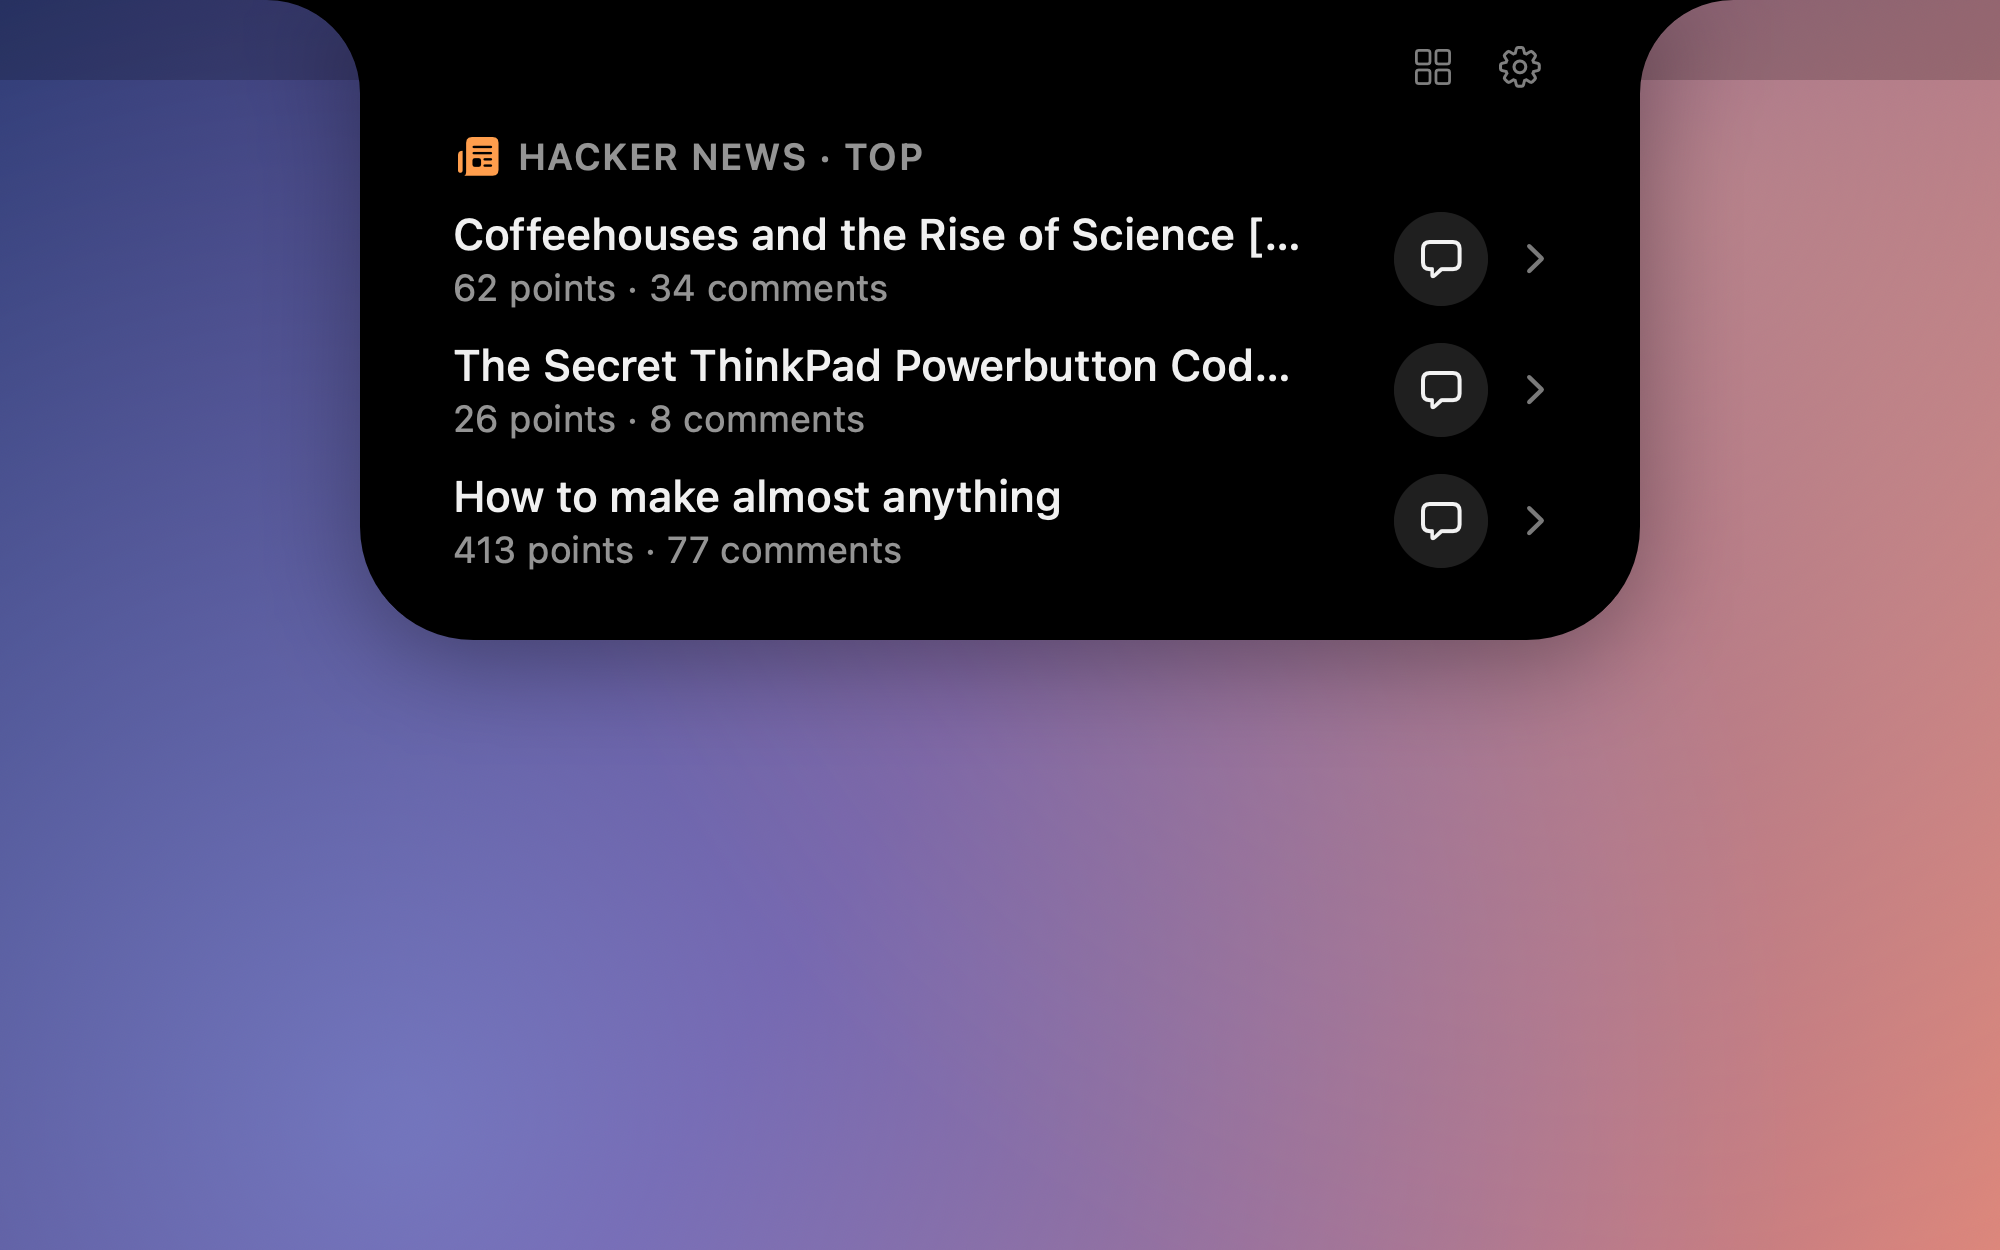
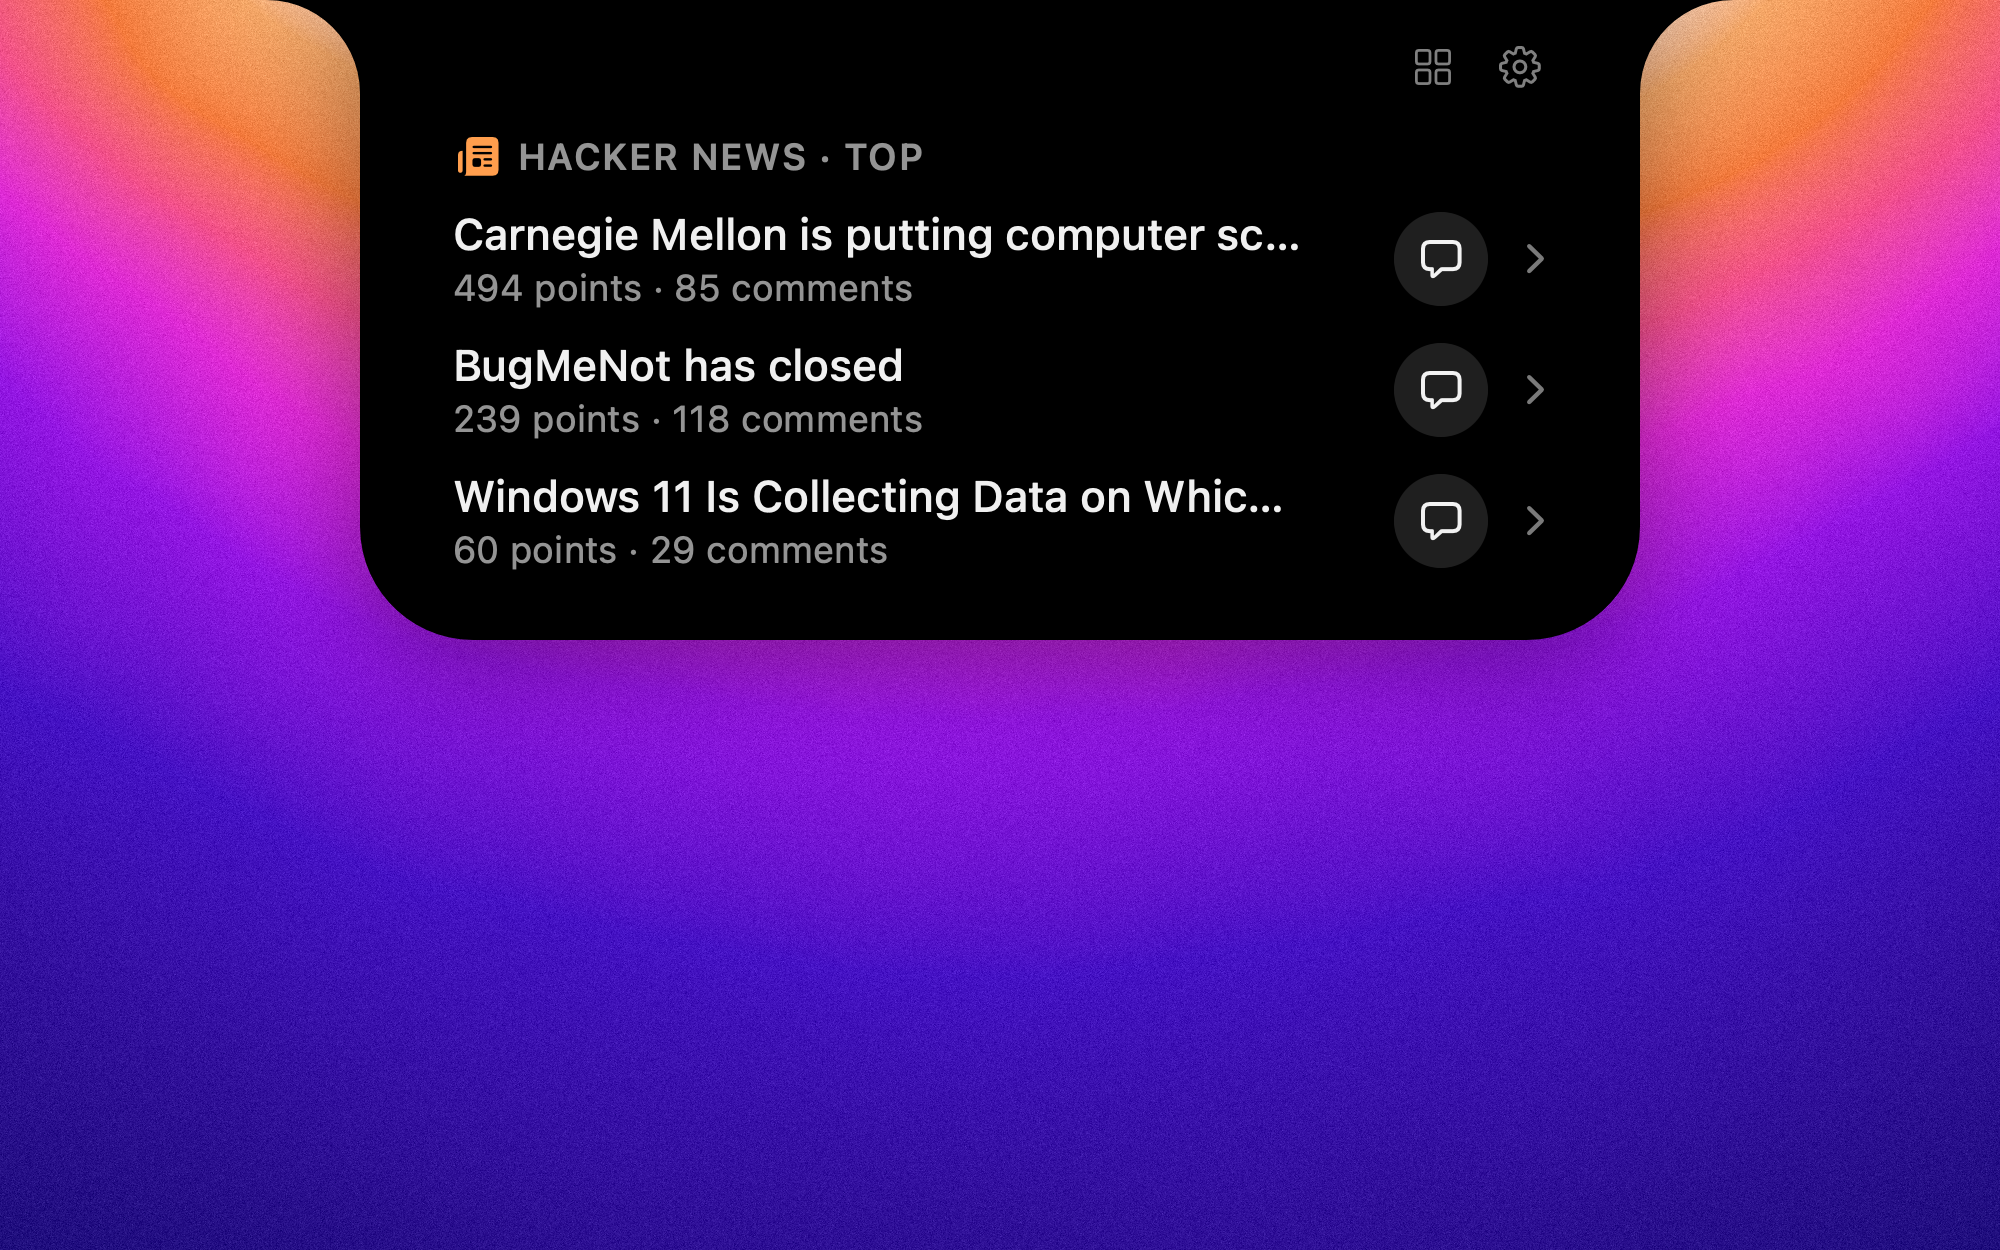
Retake Store screenshots on NotchNotch's own wallpaper
Twelve extensions get a new screenshot on the warm wallpaper and a patch
release, as the catalog links screenshots by version. GitHub Notifications
keeps its old one.

diff --git a/extensions/sadeqi-ah/focus-timer/CHANGELOG.md b/extensions/sadeqi-ah/focus-timer/CHANGELOG.md
@@ -1,5 +1,9 @@
 # Focus Timer Changelog
 
+## [1.0.7]
+
+- A new Store screenshot, on NotchNotch's own wallpaper.
+
 ## [1.0.6]
 
 - Its own wide tile in Home: the session ring and the time left. Shows in NotchNotch 0.13 and later; older versions ignore it.

diff --git a/extensions/sadeqi-ah/word-of-the-day/CHANGELOG.md b/extensions/sadeqi-ah/word-of-the-day/CHANGELOG.md
@@ -1,5 +1,9 @@
 # Word of the Day Changelog
 
+## [1.0.6]
+
+- A new Store screenshot, on NotchNotch's own wallpaper.
+
 ## [1.0.5]
 
 - A new Store screenshot, in its own color.

diff --git a/extensions/sadeqi-ah/break-reminder/CHANGELOG.md b/extensions/sadeqi-ah/break-reminder/CHANGELOG.md
@@ -1,5 +1,9 @@
 # Break Reminder Changelog
 
+## [1.0.6]
+
+- A new Store screenshot, on NotchNotch's own wallpaper.
+
 ## [1.0.5]
 
 - A new Store screenshot, in its own color.

diff --git a/extensions/sadeqi-ah/service-status/CHANGELOG.md b/extensions/sadeqi-ah/service-status/CHANGELOG.md
@@ -1,5 +1,9 @@
 # Service Status Changelog
 
+## [1.0.7]
+
+- A new Store screenshot, on NotchNotch's own wallpaper.
+
 ## [1.0.6]
 
 - A new Store screenshot, in its own color.

diff --git a/extensions/sadeqi-ah/crypto-prices/CHANGELOG.md b/extensions/sadeqi-ah/crypto-prices/CHANGELOG.md
@@ -1,5 +1,9 @@
 # Crypto Prices Changelog
 
+## [1.0.7]
+
+- A new Store screenshot, on NotchNotch's own wallpaper.
+
 ## [1.0.6]
 
 - A new Store screenshot, in its own color.

diff --git a/extensions/sadeqi-ah/hacker-news/CHANGELOG.md b/extensions/sadeqi-ah/hacker-news/CHANGELOG.md
@@ -1,5 +1,9 @@
 # Hacker News Changelog
 
+## [1.0.6]
+
+- A new Store screenshot, on NotchNotch's own wallpaper.
+
 ## [1.0.5]
 
 - A new Store screenshot, in its own color.

diff --git a/extensions/sadeqi-ah/world-clock/CHANGELOG.md b/extensions/sadeqi-ah/world-clock/CHANGELOG.md
@@ -1,5 +1,9 @@
 # World Clock Changelog
 
+## [1.0.6]
+
+- A new Store screenshot, on NotchNotch's own wallpaper.
+
 ## [1.0.5]
 
 - A new Store screenshot, in its own color.

diff --git a/extensions/sadeqi-ah/moon-phase/CHANGELOG.md b/extensions/sadeqi-ah/moon-phase/CHANGELOG.md
@@ -1,5 +1,9 @@
 # Moon Phase Changelog
 
+## [1.0.6]
+
+- A new Store screenshot, on NotchNotch's own wallpaper.
+
 ## [1.0.5]
 
 - A new Store screenshot, in its own color.

diff --git a/extensions/sadeqi-ah/countdown/CHANGELOG.md b/extensions/sadeqi-ah/countdown/CHANGELOG.md
@@ -1,5 +1,9 @@
 # Countdown Changelog
 
+## [1.0.7]
+
+- A new Store screenshot, on NotchNotch's own wallpaper.
+
 ## [1.0.6]
 
 - A new Store screenshot, in its own color.

diff --git a/extensions/sadeqi-ah/weather/CHANGELOG.md b/extensions/sadeqi-ah/weather/CHANGELOG.md
@@ -1,5 +1,9 @@
 # Weather Changelog
 
+## [1.0.7]
+
+- A new Store screenshot, on NotchNotch's own wallpaper.
+
 ## [1.0.6]
 
 - A new Store screenshot, in its own color.

diff --git a/extensions/sadeqi-ah/system-monitor/CHANGELOG.md b/extensions/sadeqi-ah/system-monitor/CHANGELOG.md
@@ -1,5 +1,9 @@
 # System Monitor Changelog
 
+## [1.0.3]
+
+- A new Store screenshot, on NotchNotch's own wallpaper.
+
 ## [1.0.2]
 
 - A Store screenshot.

diff --git a/extensions/sadeqi-ah/battery/CHANGELOG.md b/extensions/sadeqi-ah/battery/CHANGELOG.md
@@ -1,5 +1,9 @@
 # Battery Changelog
 
+## [1.0.4]
+
+- A new Store screenshot, on NotchNotch's own wallpaper.
+
 ## [1.0.3]
 
 - A Store screenshot.
